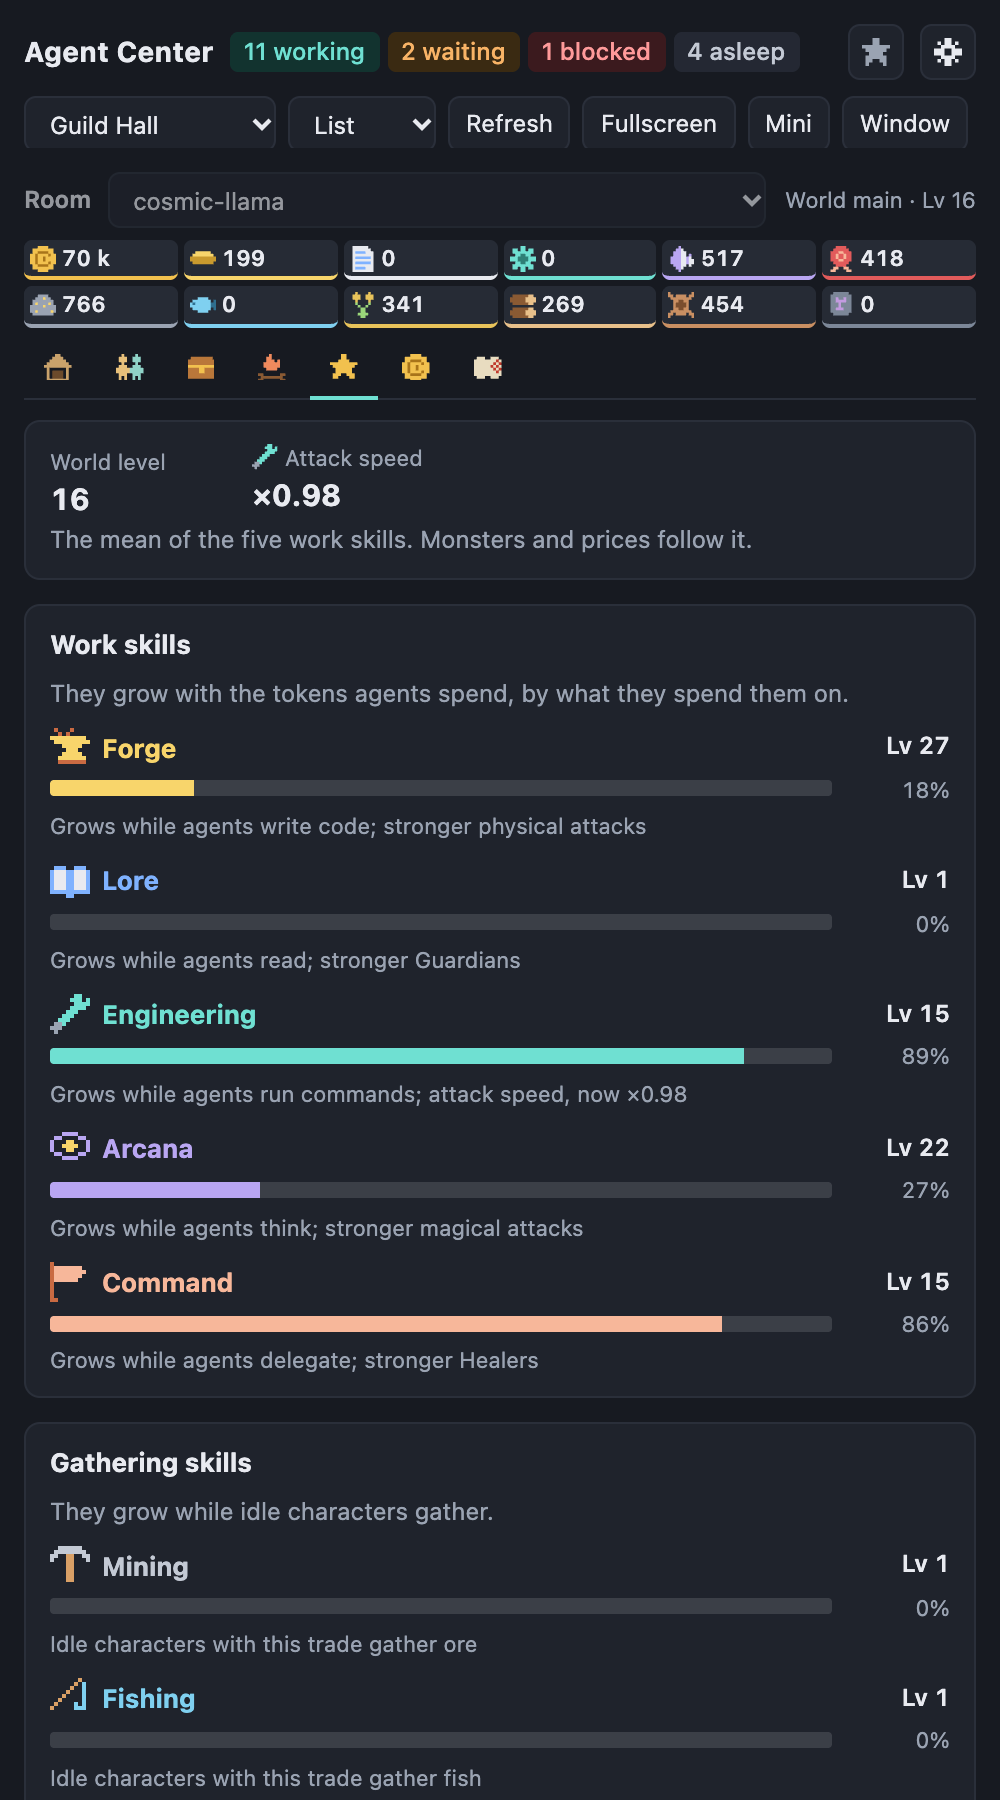
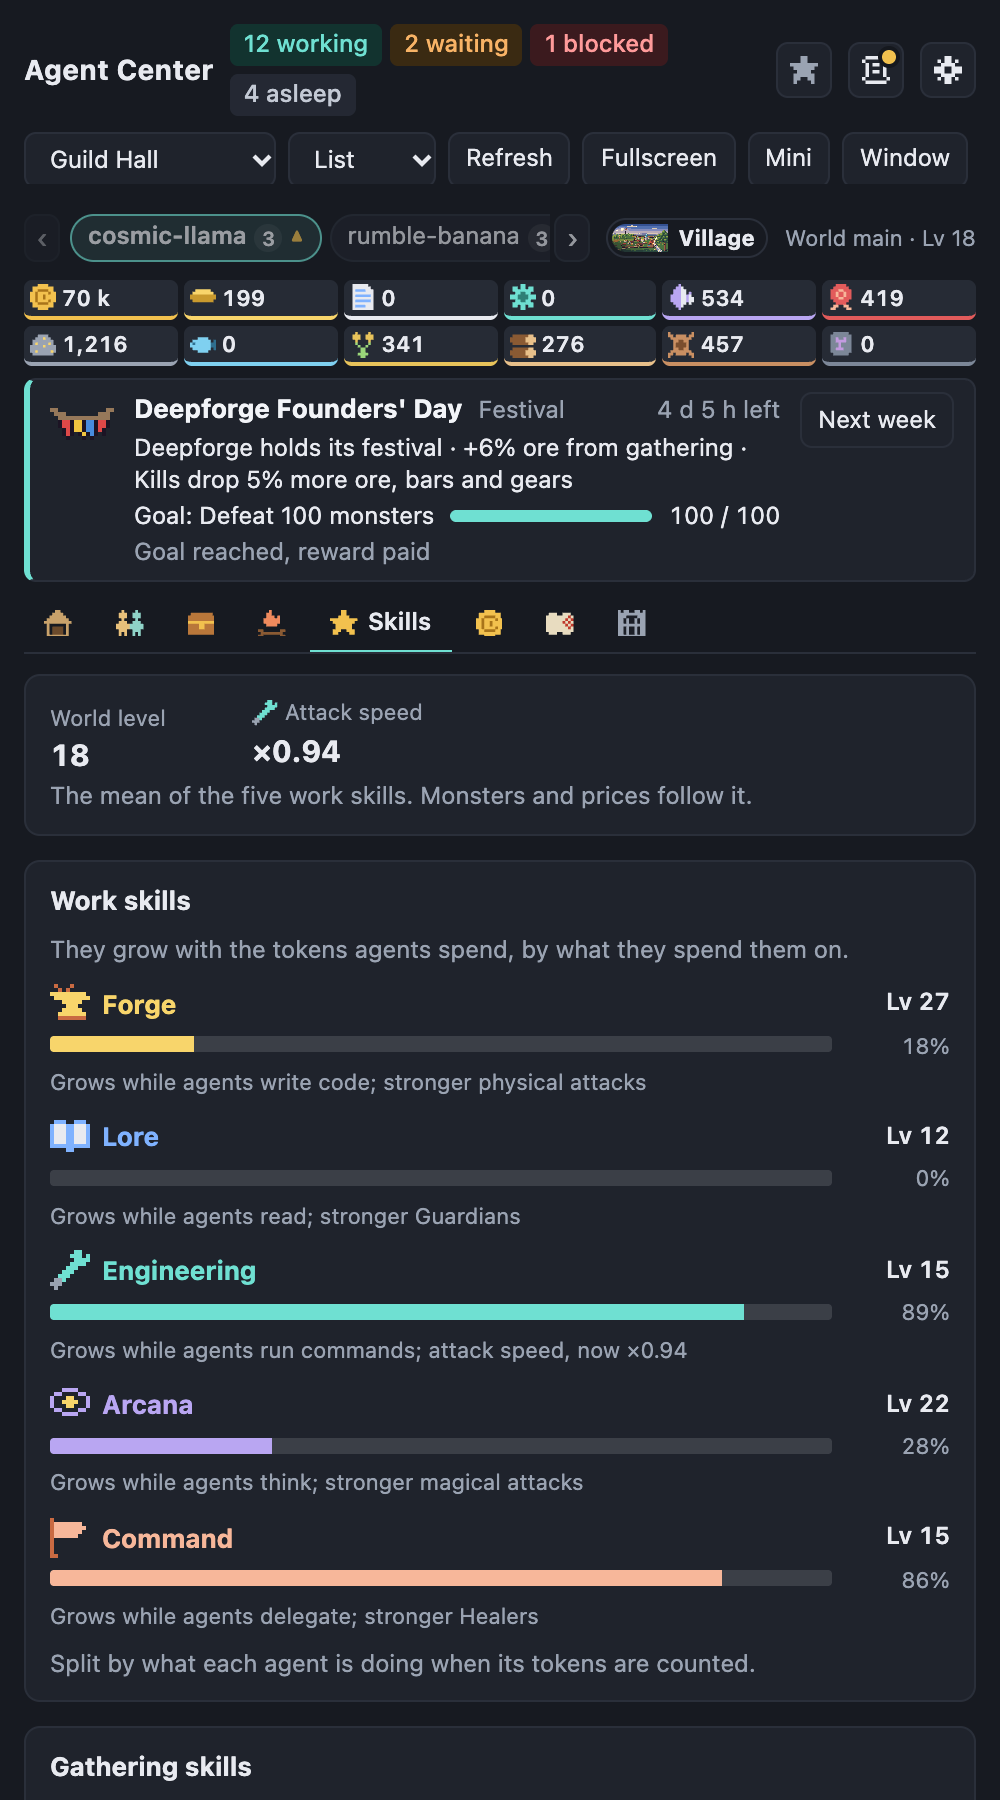
docs: retake the game screenshots and describe the newer features
The screenshots above the game's tabs showed seven tabs and no weekly
banner or summary button. Retaken from the frozen Guild Hall demo at
their old sizes with scripts/capture.mjs: Rooms, Chest, Skills, Market
(cities with rank badges and Deepforge's festival), Camp, the World
tab's bestiary, the Roadmap, the README's game gallery and the listing's
cover and Camp images. New: the Party tab with traits and the party
title, and the World tab's Achievements view.

The README gains the GIF at the top of the game-mode pitch and short
paragraphs on achievements and titles, traits and city ranks (weekly
events, rematches and the second region were already there), and its
alt texts follow the pictures. CONTRIBUTING.md says how each is taken.

diff --git a/README.md b/README.md
@@ -61,9 +61,11 @@ gone quiet, across every machine Orca is connected to.
 You do not play it so much as feed it. Your agents do their work, and the work is what moves
 the game: no clicking is needed, and nothing is lost by ignoring it for a day.
 
+![Game mode playing in a Guild Hall room: the party fights an elite orc, its health bar drops, the orc is defeated with materials and bestiary news popping up, and the next monster, a pack of rats, comes in; above, the room chips, the world's materials, the weekly event's banner and the game's eight tabs](docs/screenshots/game-mode.gif)
+
 | Rooms | Chest | Skills | Market |
 | --- | --- | --- | --- |
-| ![A room's party facing its monster, with the wave and the monster's health](docs/screenshots/game-rooms.png) | ![The Chest tab: the room chips and the world's coins and materials over the seven tabs, then the chest's item slots under a Move items button with a legendary sword in a gold frame, a free cudgel's detail with its upgrade and Send to another room, and the room's relics with Rimeheart active](docs/screenshots/game-chest.png) | ![The world level and the work skills with their progress](docs/screenshots/game-skills.png) | ![The Market tab: the pixel-art banners of Goldmill and Deepforge, each with what it sells cheap and pays well for, under the world's coins and materials](docs/screenshots/game-market.png) |
+| ![A room's party facing its monster, with the wave and the monster's health](docs/screenshots/game-rooms.png) | ![The Chest tab: the room chips, the world's coins and materials and the weekly event's banner over the eight tabs, then the chest's item slots under a Move items button with a legendary sword in a gold frame, a cudgel's detail with its upgrade and Send to another room, and the room's relics with Rimeheart active](docs/screenshots/game-chest.png) | ![The world level and the work skills with their progress](docs/screenshots/game-skills.png) | ![The Market tab: the pixel-art banners of Goldmill at rank III and Deepforge at rank II during its festival, each with what it sells cheap and pays well for](docs/screenshots/game-market.png) |
 
 ### How it plays
 
@@ -120,7 +122,7 @@ the game: no clicking is needed, and nothing is lost by ignoring it for a day.
   and beating more different bosses levels a boss hunter track. It is a small bonus too: a whole
   bestiary adds under a tenth to a party.
 
-![The Camp tab as a settlement: the pixel-art Village with "31 of 60 building levels to become a Town" and its bonus, then the Hearth's card at its second tier, Cooking hearth, with what it does now and next and its price in materials and, half in coins](docs/screenshots/game-settlement.png)
+![The Camp tab as a settlement: the pixel-art Village at stage 4 of 7 with "31 of 60 building levels to become a Town" and its bonus, then the Hearth's card at its second tier, Cooking hearth, with what it does now and next and its price](docs/screenshots/game-settlement.png)
 
 - **Instances.** A road of dungeons opens as the world grows, one after another: six on the Old
   Road, from a sunken crypt to a dragon's spire, then, once those are cleared, eight more in a
@@ -128,7 +130,7 @@ the game: no clicking is needed, and nothing is lost by ignoring it for a day.
   from the Roadmap tab:
   while inside, the room's wave waits and its working time plays the instance's six rooms (an
   entrance, a hall, a trap or puzzle, an elite's chamber, a vault where you pick one of two boons,
-  and a named boss), and the room shows the instance's banner behind its characters. The first
+  and a named boss), and the room is drawn in the instance's own scene instead of its theme. The first
   clear of each gives a signature relic; every clear pays a purse and a chance at the boss's own
   item. Repeat runs climb tiers with no end, each harder, richer and with its own twist, and a
   beaten boss can be fought again in Rematch I to X, each opened by the world's level and paying
@@ -144,7 +146,22 @@ the game: no clicking is needed, and nothing is lost by ignoring it for a day.
 
 ![The Roadmap tab under the weekly event's banner: the switch between The Old Road and The Gloaming Isles (locked), then the parchment map of the road with a cleared crypt, a party on its way to the foundry and the sites ahead under fog](docs/screenshots/game-roadmap.png)
 
-![The Bestiary tab: the hunter rank and boss hunter bars, then cards of slimes with the title Slime-scourer II, goblins, orcs and skeletons, each with its level, points to the next level, damage bonus and next step](docs/screenshots/game-bestiary.png)
+- **Achievements and titles.** Over 150 achievements in fourteen groups follow everything the
+  game counts, from a first kill to a cleared region; each gives points, and some give a title.
+  Pick one of the titles your world earned for a room's party, and it shows beside its
+  characters' names. A summary button above the tabs opens the day journal: what the world did
+  today and since you last looked, and its highlights.
+- **Traits.** Every character is born with a trait, a small named perk, and earns more slots as
+  it levels. Elites, champions and bosses now and then drop trait scrolls that teach one; each
+  city's Trait broker trades them.
+- **City ranks.** Trading in a city earns standing there; with enough, its charter raises it
+  through five ranks, each with a lower fee, a richer stall and a small perk for the whole world.
+
+| Party | Achievements |
+| --- | --- |
+| ![The Party tab: rumble-banana's characters, each with the party title "the Eager" under its name, its class, level, attributes and gear, and its traits with a free slot](docs/screenshots/game-party.png) | ![The Achievements view of the World tab: the world's points and achievements earned, the title picked for rumble-banana's party, and the Battle group with First Blood and Warming Up earned](docs/screenshots/game-achievements.png) |
+
+![The World tab's bestiary: the races discovered and bosses beaten, the hunter rank and boss hunter bars, and the bestiary's bonuses](docs/screenshots/game-bestiary.png)
 
 ### The bestiary
 

diff --git a/CONTRIBUTING.md b/CONTRIBUTING.md
@@ -116,7 +116,20 @@ The game tabs `game-rooms.png`, `game-chest.png`, `game-skills.png` and `game-ma
 500 × 900 window and scale 2; the Chest one adds `&room=local:/work/rumble-banana` and has its free
 Whittled Cudgel chosen, so the item detail and its **Send to** show. Look at each before committing it: `--screenshot` can fire before
 the city banners are painted, and then the Market shot shows empty cards. Taking the picture
-through Chrome's DevTools protocol once every image has loaded avoids that.
+through Chrome's DevTools protocol once every image has loaded avoids that; `scripts/capture.mjs`
+does it at scale 2 with reduced motion:
+
+```bash
+node scripts/capture.mjs shot "http://127.0.0.1:47700/?view=list&tab=market" docs/screenshots/game-market.png 500 900
+```
+
+The same goes for `game-settlement.png` (`tab=camp`), `game-bestiary.png` (`tab=world`),
+`game-roadmap.png` (`?tab=roadmap&room=local:/work/rumble-banana`), `game-party.png`
+(`tab=party&room=local:/work/rumble-banana`) and `game-achievements.png`
+(`?tab=world&view=achievements&room=local:/work/rumble-banana`, without `view=list`, which would
+take the place of the World tab's view). For the Chest, `--eval` clicks the cudgel first:
+`--eval "[...document.querySelectorAll('button')].find((b) => /Whittled Cudgel/.test(b.getAttribute('aria-label') ?? ''))?.click()"`.
+The demo for all of them is `GAME=1 FREEZE=1 node scripts/demo.mjs guild-hall`.
 
 ### The game-mode GIF
 
@@ -152,8 +165,9 @@ committing it.
 The images in `assets/` are what Orca's plugin directory shows. They come from the demo too,
 with `--window-size=1280,800` and `?view=gallery` for all rooms, or `?view=gallery&only=rumble`,
 `only=cosmic` and `only=turbo` for one room each. The cover is the game-mode gallery
-(`GAME=1 FREEZE=1`, `?view=gallery`) on Guild Hall at 1280×800, and `assets/screenshot-game.png`
-the settlement on the Camp tab (`?tab=camp`) at the same size, so the listing never shows one
+(`GAME=1 FREEZE=1`, `?view=gallery`) on Guild Hall at 1280×800 (`--scale 1`, and the README's
+`game-gallery.png` is the same picture), and `assets/screenshot-game.png` the settlement on the
+Camp tab (`?view=gallery&tab=camp`) at the same size, so the listing never shows one
 picture twice. The bestiary
 (`assets/screenshot-bestiary.png`, exactly 1280×800) and the README's `game-bosses.png` and
 `game-ranks.png` come from the contact sheet (`?part=bosses`, `?part=races`) with everything but
